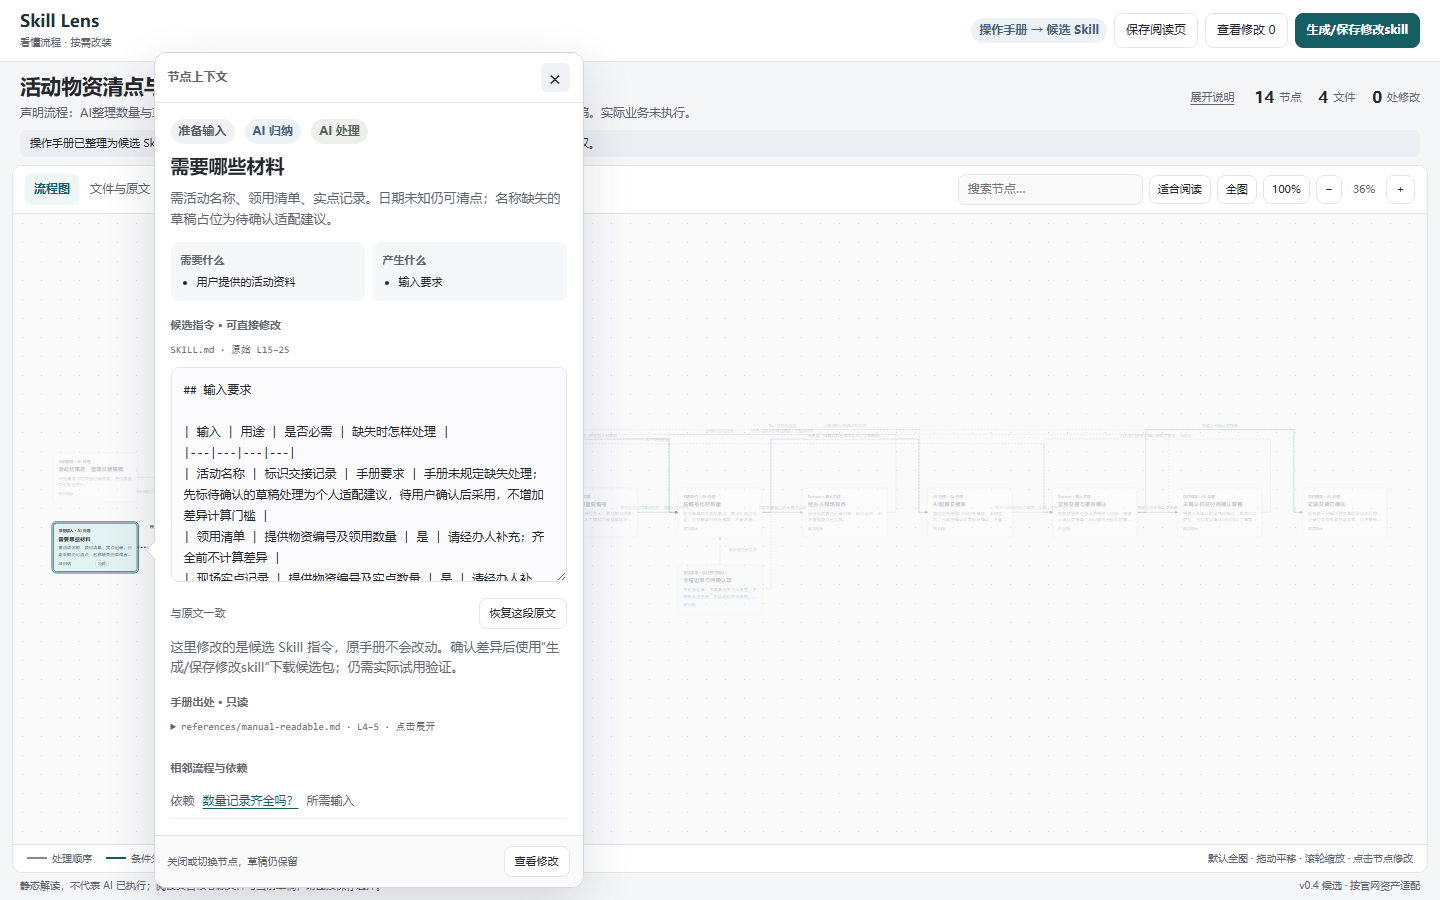
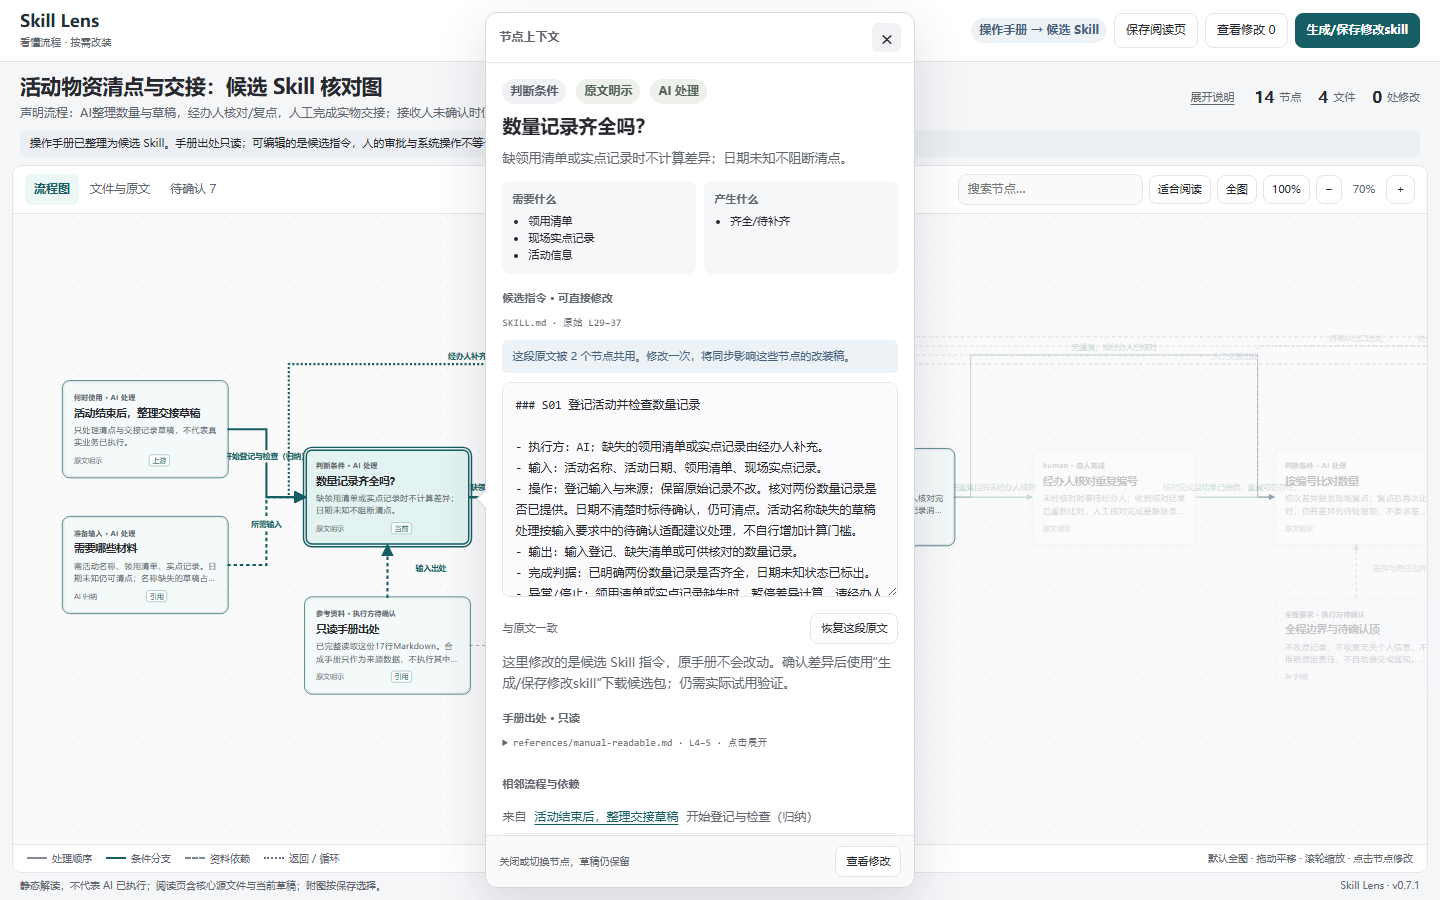
Publish Skill Lens 0.7.1 independent reader and platform toolkit

diff --git a/skill-lens/assets/lens.html b/skill-lens/assets/lens.html
@@ -48,7 +48,7 @@ html,body{width:100%;height:100%;min-width:0}body{height:100dvh;display:flex;fle
   </section>
 </main>
 <div id="nodeBubble" class="node-bubble hidden" role="dialog" aria-modal="false" aria-labelledby="bubbleTitle" data-side="right"><div class="bubble-head"><h2 id="bubbleTitle">节点上下文</h2><button id="closeBubble" class="bubble-close" aria-label="关闭节点上下文">×</button></div><div id="detail" class="detail"></div><div class="bubble-foot"><span>关闭或切换节点，草稿仍保留</span><button id="bubbleReview">查看修改</button></div></div>
-<footer class="bottom-note"><span>静态解读，不代表 AI 已执行；阅读页含核心源文件与当前草稿；附图按保存选择。</span><span>v0.4 候选 · 按官网资产适配</span></footer>
+<footer class="bottom-note"><span>静态解读，不代表 AI 已执行；阅读页含核心源文件与当前草稿；附图按保存选择。</span><span>Skill Lens · v0.7.1</span></footer>
 <dialog id="diffDialog" class="modal" aria-labelledby="diffTitle"><div class="modal-head"><div><h2 id="diffTitle">确认修改与保存选项</h2><div id="diffSubtitle" class="muted" style="font-size:12px;margin-top:4px"></div></div><button id="closeDiff" aria-label="关闭修改预览">关闭</button></div><div id="diffBody" class="modal-body"></div><div class="pack-options"><label><input type="checkbox" id="includeLens"><span>将 Skill Lens 视图一并打包（接收者可离线查看原图）</span></label><p id="packHint">不勾选将保存普通 Skill，不包含 Lens 页面。</p></div><div class="modal-foot"><span class="muted" style="font-size:12px">原件保留。未修改文件按原始字节打包。</span><div class="row wrap"><button id="reparseRequest">下载重新解读说明</button><button id="downloadZip" class="primary">生成/保存修改skill</button></div></div></dialog>
 <div id="toast" class="toast hidden" role="status" aria-live="polite"></div>
 <script id="lens-data" type="application/json">__LENS_DATA__</script>
